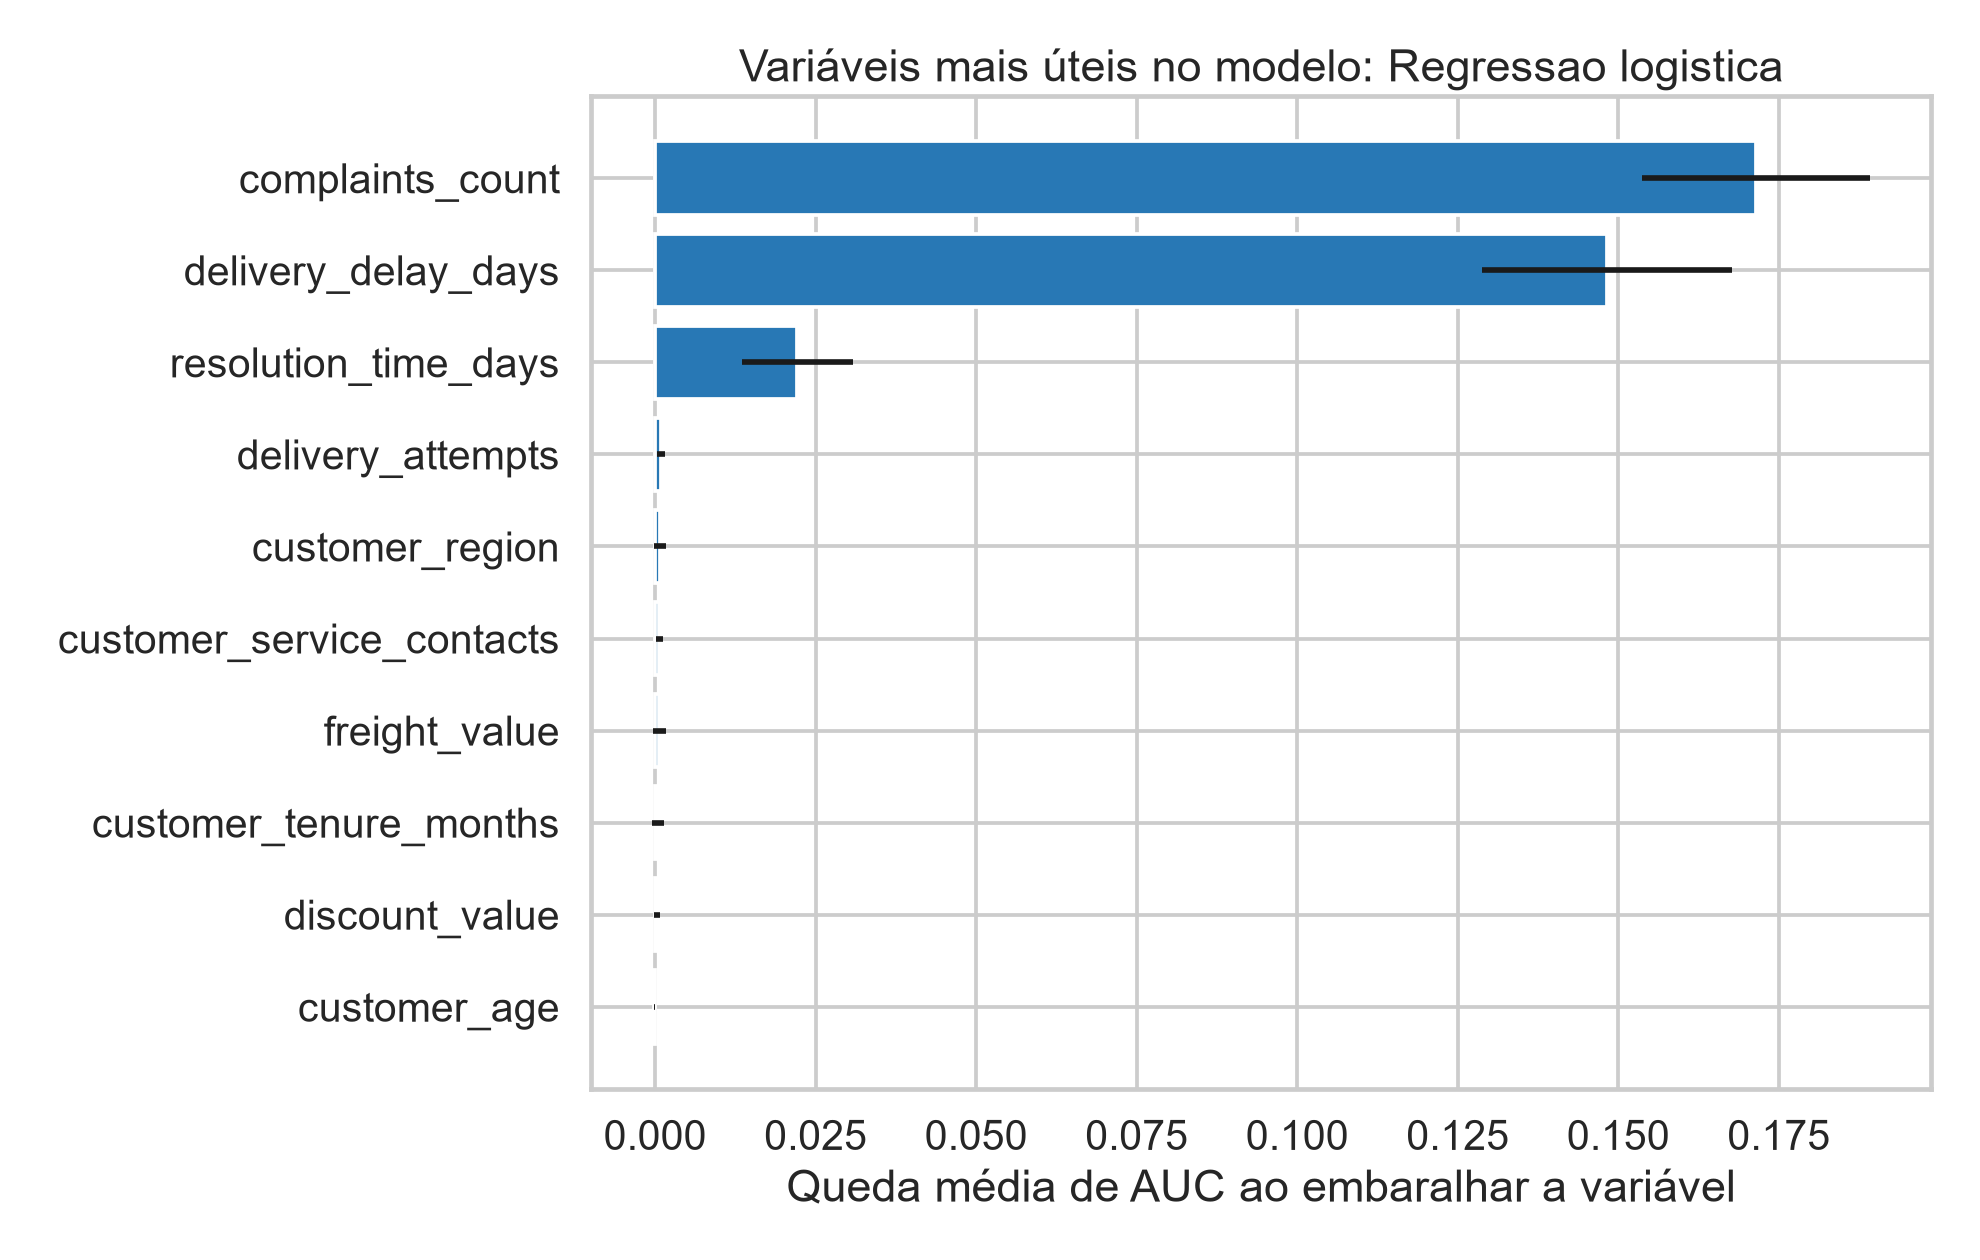
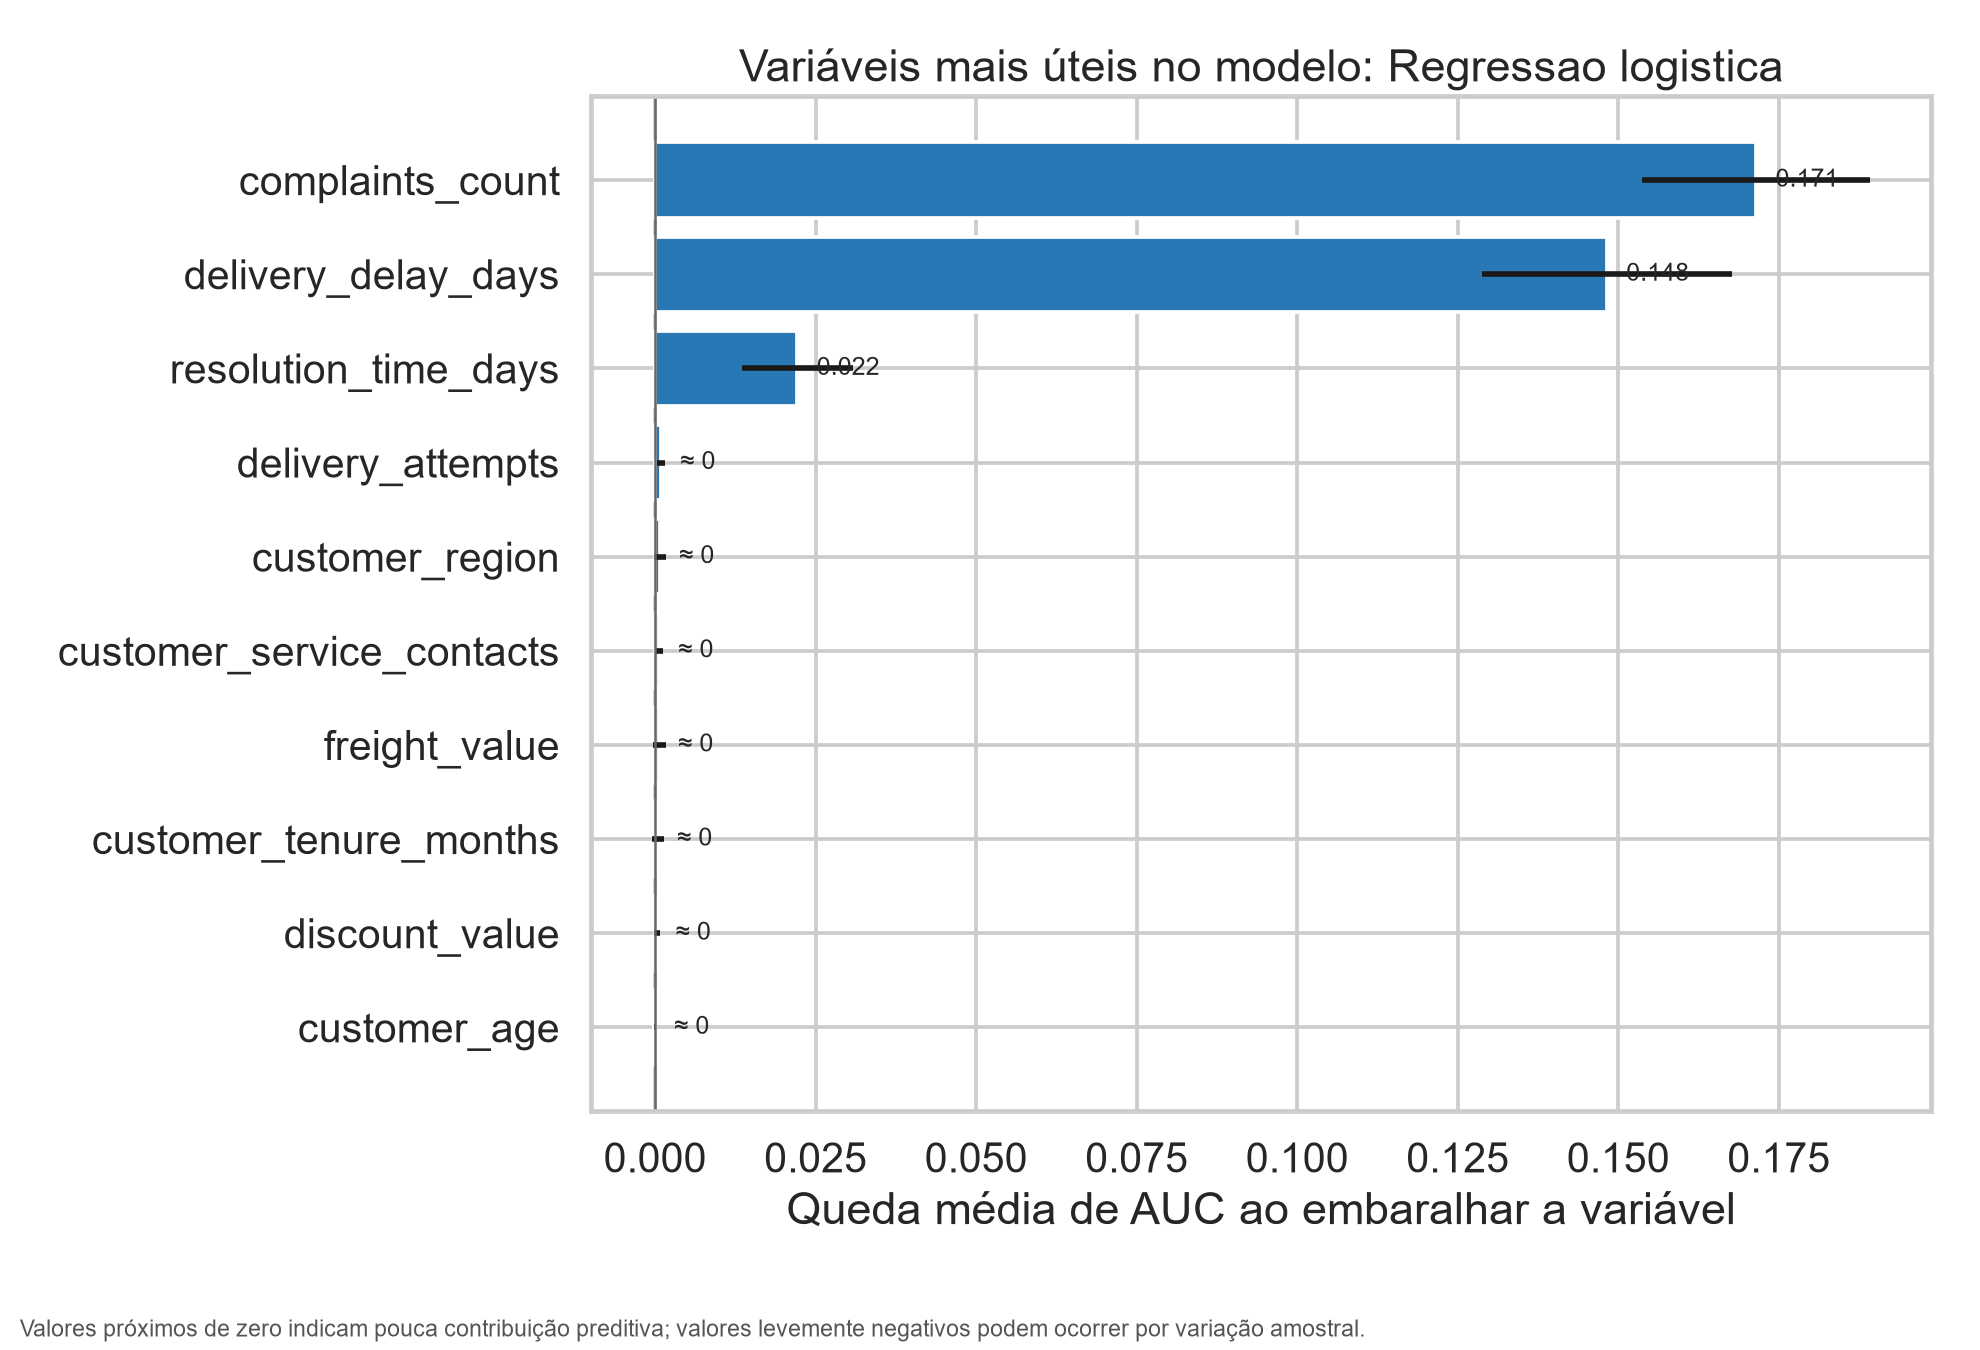
Enhance feature importance visualization in model evaluation

diff --git a/tech_challenge_fase_1_nps/src/run_analysis.py b/tech_challenge_fase_1_nps/src/run_analysis.py
@@ -436,11 +436,37 @@ def train_and_evaluate(data: pd.DataFrame) -> tuple[Pipeline, pd.DataFrame]:
     )
     importance_table.to_csv(REPORTS_DIR / "model_feature_importance.csv", index=False)
 
-    top = importance_table.head(10).sort_values("importance_mean")
-    fig, ax = plt.subplots(figsize=(11, 7))
-    ax.barh(top["feature"], top["importance_mean"], xerr=top["importance_std"], color="#2878B5")
-    ax.set(title=f"Variáveis mais úteis no modelo: {best_name}", xlabel="Queda média de AUC ao embaralhar a variável", ylabel="")
-    fig.tight_layout()
+    top = importance_table.head(10).sort_values("importance_mean").reset_index(drop=True)
+    fig, ax = plt.subplots(figsize=(11, 7.5))
+    ax.barh(
+        top["feature"],
+        top["importance_mean"],
+        xerr=top["importance_std"],
+        color="#2878B5",
+    )
+    ax.axvline(0, color="#666666", linewidth=1)
+    ax.set(
+        title=f"Variáveis mais úteis no modelo: {best_name}",
+        xlabel="Queda média de AUC ao embaralhar a variável",
+        ylabel="",
+    )
+
+    # Uma importância por permutação próxima de zero pode parecer uma barra
+    # ausente. O rótulo deixa claro que a variável entrou no modelo, mas quase
+    # não alterou sua capacidade preditiva nesta amostra.
+    for position, value in enumerate(top["importance_mean"]):
+        label = "≈ 0" if abs(value) < 0.001 else f"{value:.3f}"
+        ax.text(max(value, 0) + 0.003, position, label, va="center", fontsize=10)
+
+    fig.text(
+        0.01,
+        0.01,
+        "Valores próximos de zero indicam pouca contribuição preditiva; valores "
+        "levemente negativos podem ocorrer por variação amostral.",
+        fontsize=9,
+        color="#555555",
+    )
+    fig.tight_layout(rect=(0, 0.05, 1, 1))
     fig.savefig(FIGURES_DIR / "06_model_feature_importance.png", dpi=180)
     plt.close(fig)
 